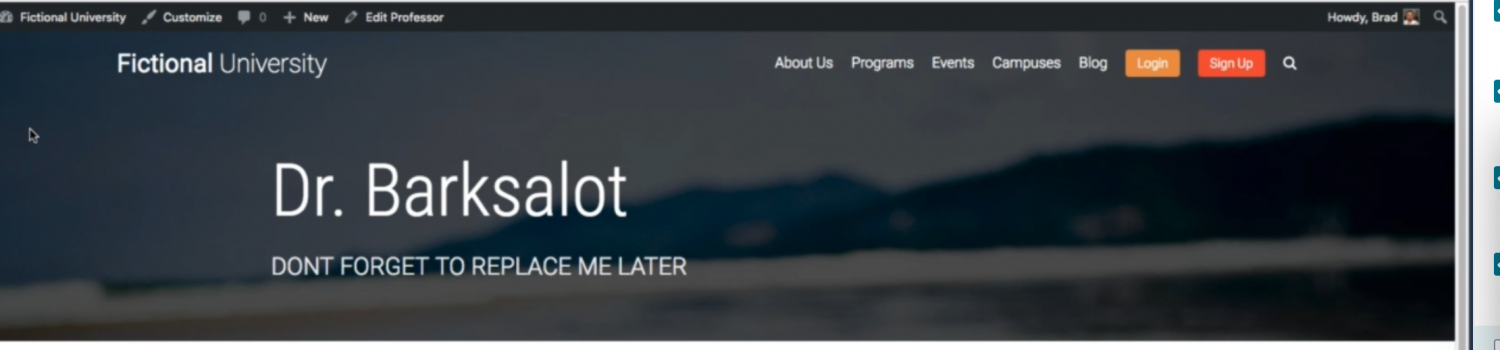
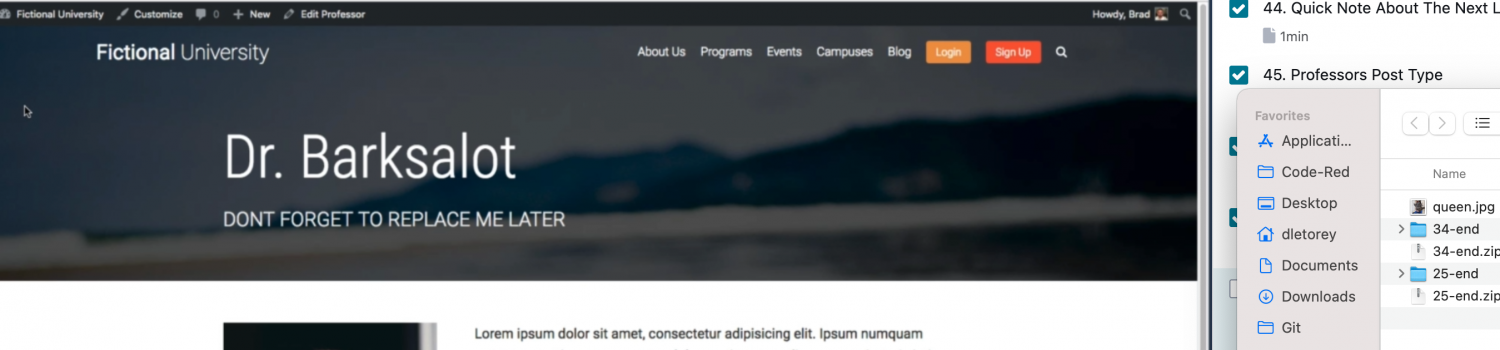
created a dynamic pageBanner that can be nested in any page

diff --git a/app/public/wp-content/themes/fictional-uni-theme/functions.php b/app/public/wp-content/themes/fictional-uni-theme/functions.php
@@ -1,4 +1,31 @@
 <?php 
+
+function pageBanner($args = NULL) {
+    if (!$args['title']) {
+        $args['title'] = get_the_title();
+    }
+    if (!$args['subtitle']) {
+        $args['subtitle'] = get_field('page_banner_subtitle');
+    }
+    if (!$args['photo']) {
+        if (get_field('page_banner_background_image')) {
+            $args['photo'] = get_field('page_banner_background_image')['sizes']['pageBanner'];
+        } else {
+            $args['photo'] = get_theme_file_uri('/images/ocean.jpg');
+        }
+    }
+    ?>
+    <div class="page-banner">
+        <div class="page-banner__bg-image" style="background-image: url(<?php echo $args['photo']; ?>);"></div>
+        <div class="page-banner__content container container--narrow">
+            <h1 class="page-banner__title"><?php echo $args['title'] ?></h1>
+            <div class="page-banner__intro">
+                <p><?php the_field('page_banner_subtitle') ?></p>
+            </div>
+        </div>  
+    </div>
+<?php }
+
 function university_files() {
     wp_enqueue_style('roboto_font', '//fonts.googleapis.com/css?family=Roboto+Condensed:300,300i,400,400i,700,700i|Roboto:100,300,400,400i,700,700i');
     wp_enqueue_style('font_awesome', '//maxcdn.bootstrapcdn.com/font-awesome/4.7.0/css/font-awesome.min.css');

diff --git a/app/public/wp-content/themes/fictional-uni-theme/single-professor.php b/app/public/wp-content/themes/fictional-uni-theme/single-professor.php
@@ -1,15 +1,8 @@
 <?php get_header();
-    while(have_posts()) {
-        the_post(); ?>
-        <div class="page-banner">
-    <div class="page-banner__bg-image" style="background-image: url(<?php $pageBannerImage = get_field('page_banner_background_image'); echo $pageBannerImage['sizes']['pageBanner']; ?>);"></div>
-    <div class="page-banner__content container container--narrow">
-      <h1 class="page-banner__title"><?php the_title(); ?></h1>
-      <div class="page-banner__intro">
-        <p><?php the_field('page_banner_subtitle') ?></p>
-      </div>
-    </div>  
-  </div>
+  while(have_posts()) {
+    the_post(); 
+    pageBanner();
+  ?>
   <div class="container container--narrow page-section">
       <div class="generic-content">
         <div class="row group">

diff --git a/app/public/wp-content/themes/fictional-uni-theme/page.php b/app/public/wp-content/themes/fictional-uni-theme/page.php
@@ -1,16 +1,7 @@
 <?php get_header();
     while(have_posts()) {
-        the_post(); ?>
-  <div class="page-banner">
-    <div class="page-banner__bg-image" style="background-image: url(<?php echo get_theme_file_uri('/images/ocean.jpg') ?>);"></div>
-    <div class="page-banner__content container container--narrow">
-      <h1 class="page-banner__title"><?php the_title(); ?></h1>
-      <div class="page-banner__intro">
-        <p>Don't forget to replace me later</p>
-      </div>
-    </div>  
-  </div>
-
+        the_post(); 
+        pageBanner(); ?>
   <div class="container container--narrow page-section">
     <?php 
         $theParent = wp_get_post_parent_id(get_the_ID());
